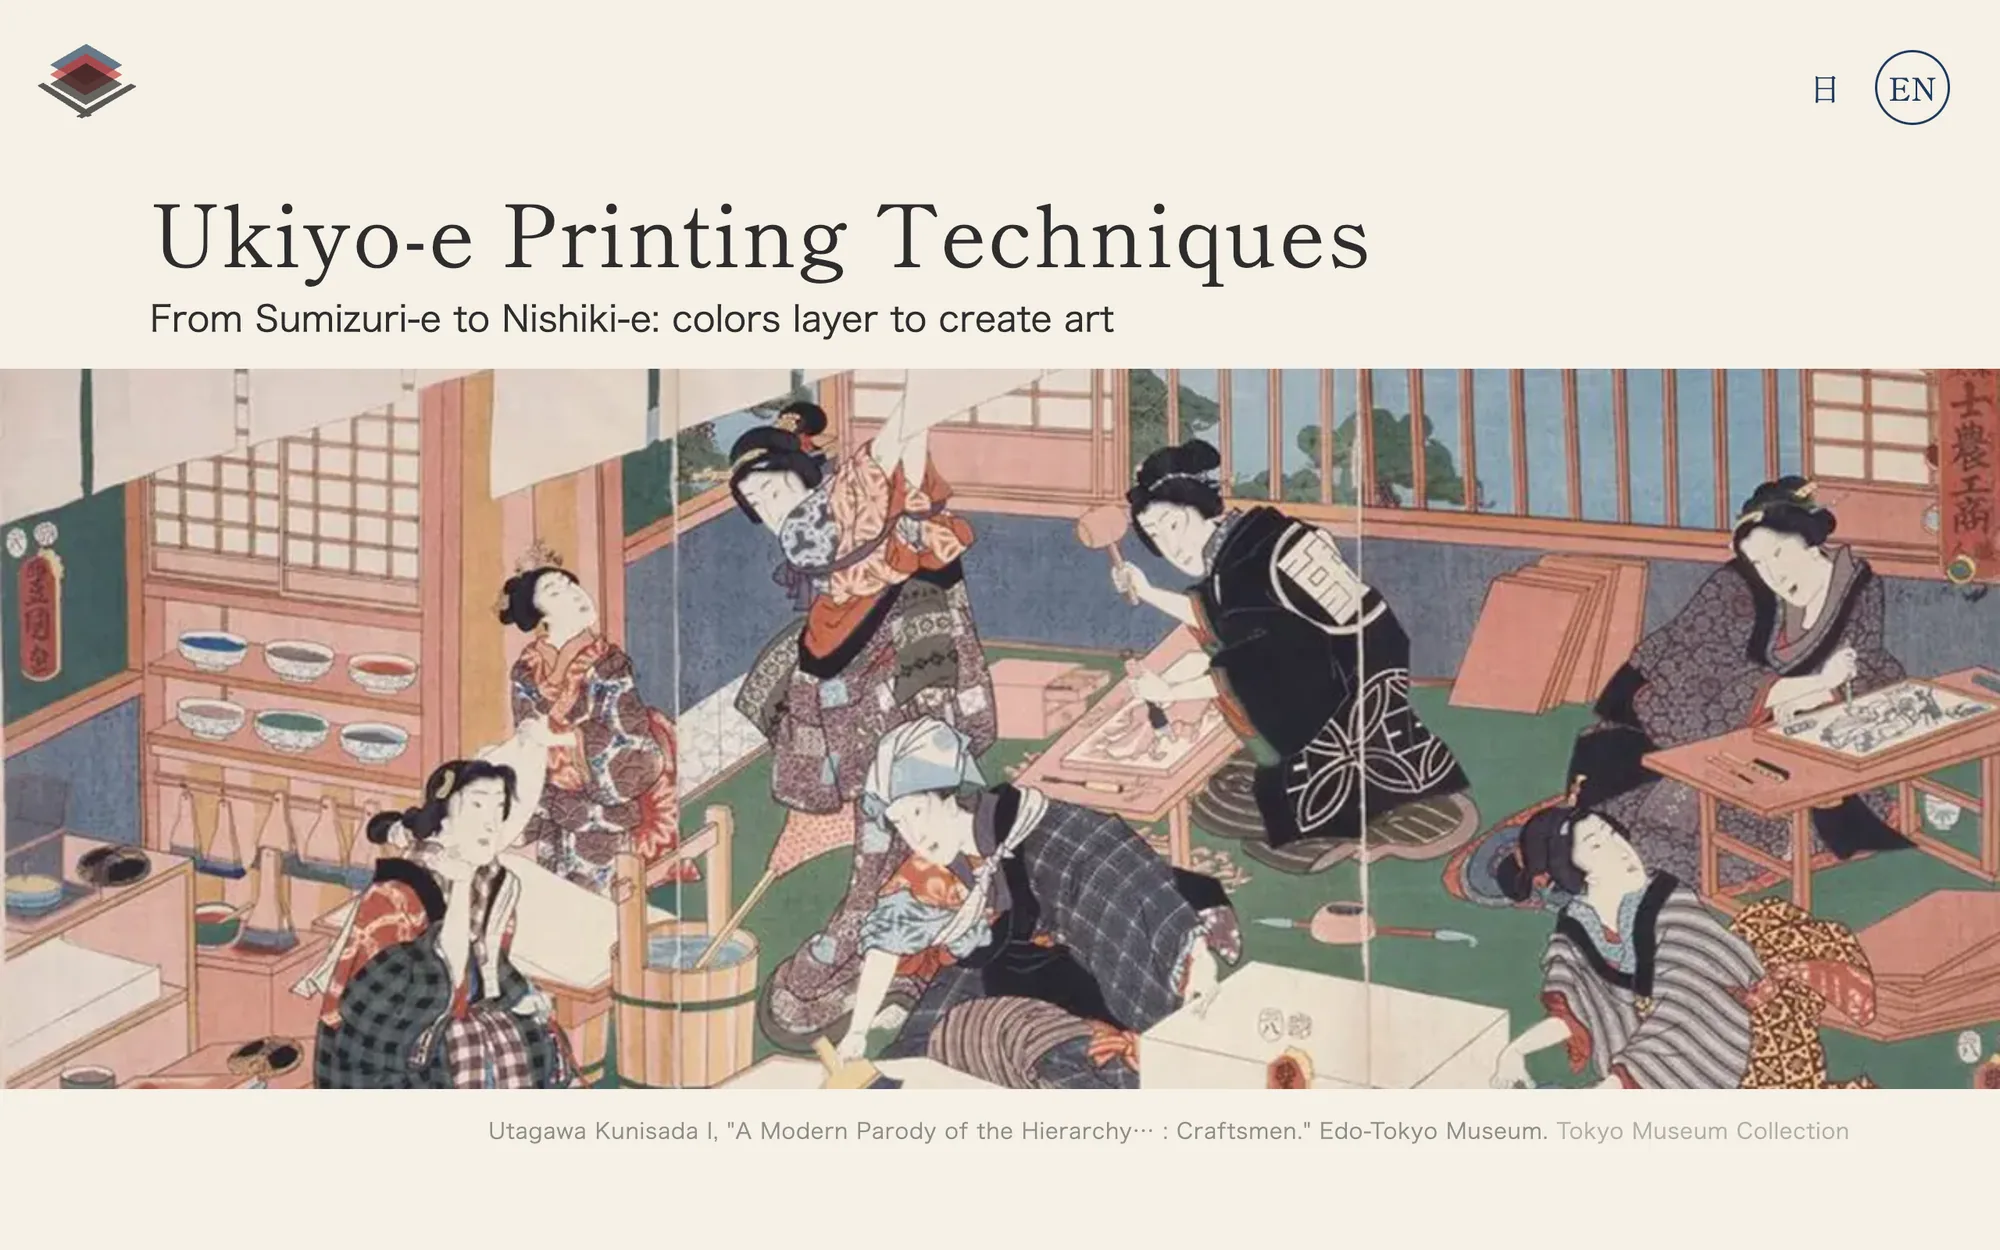
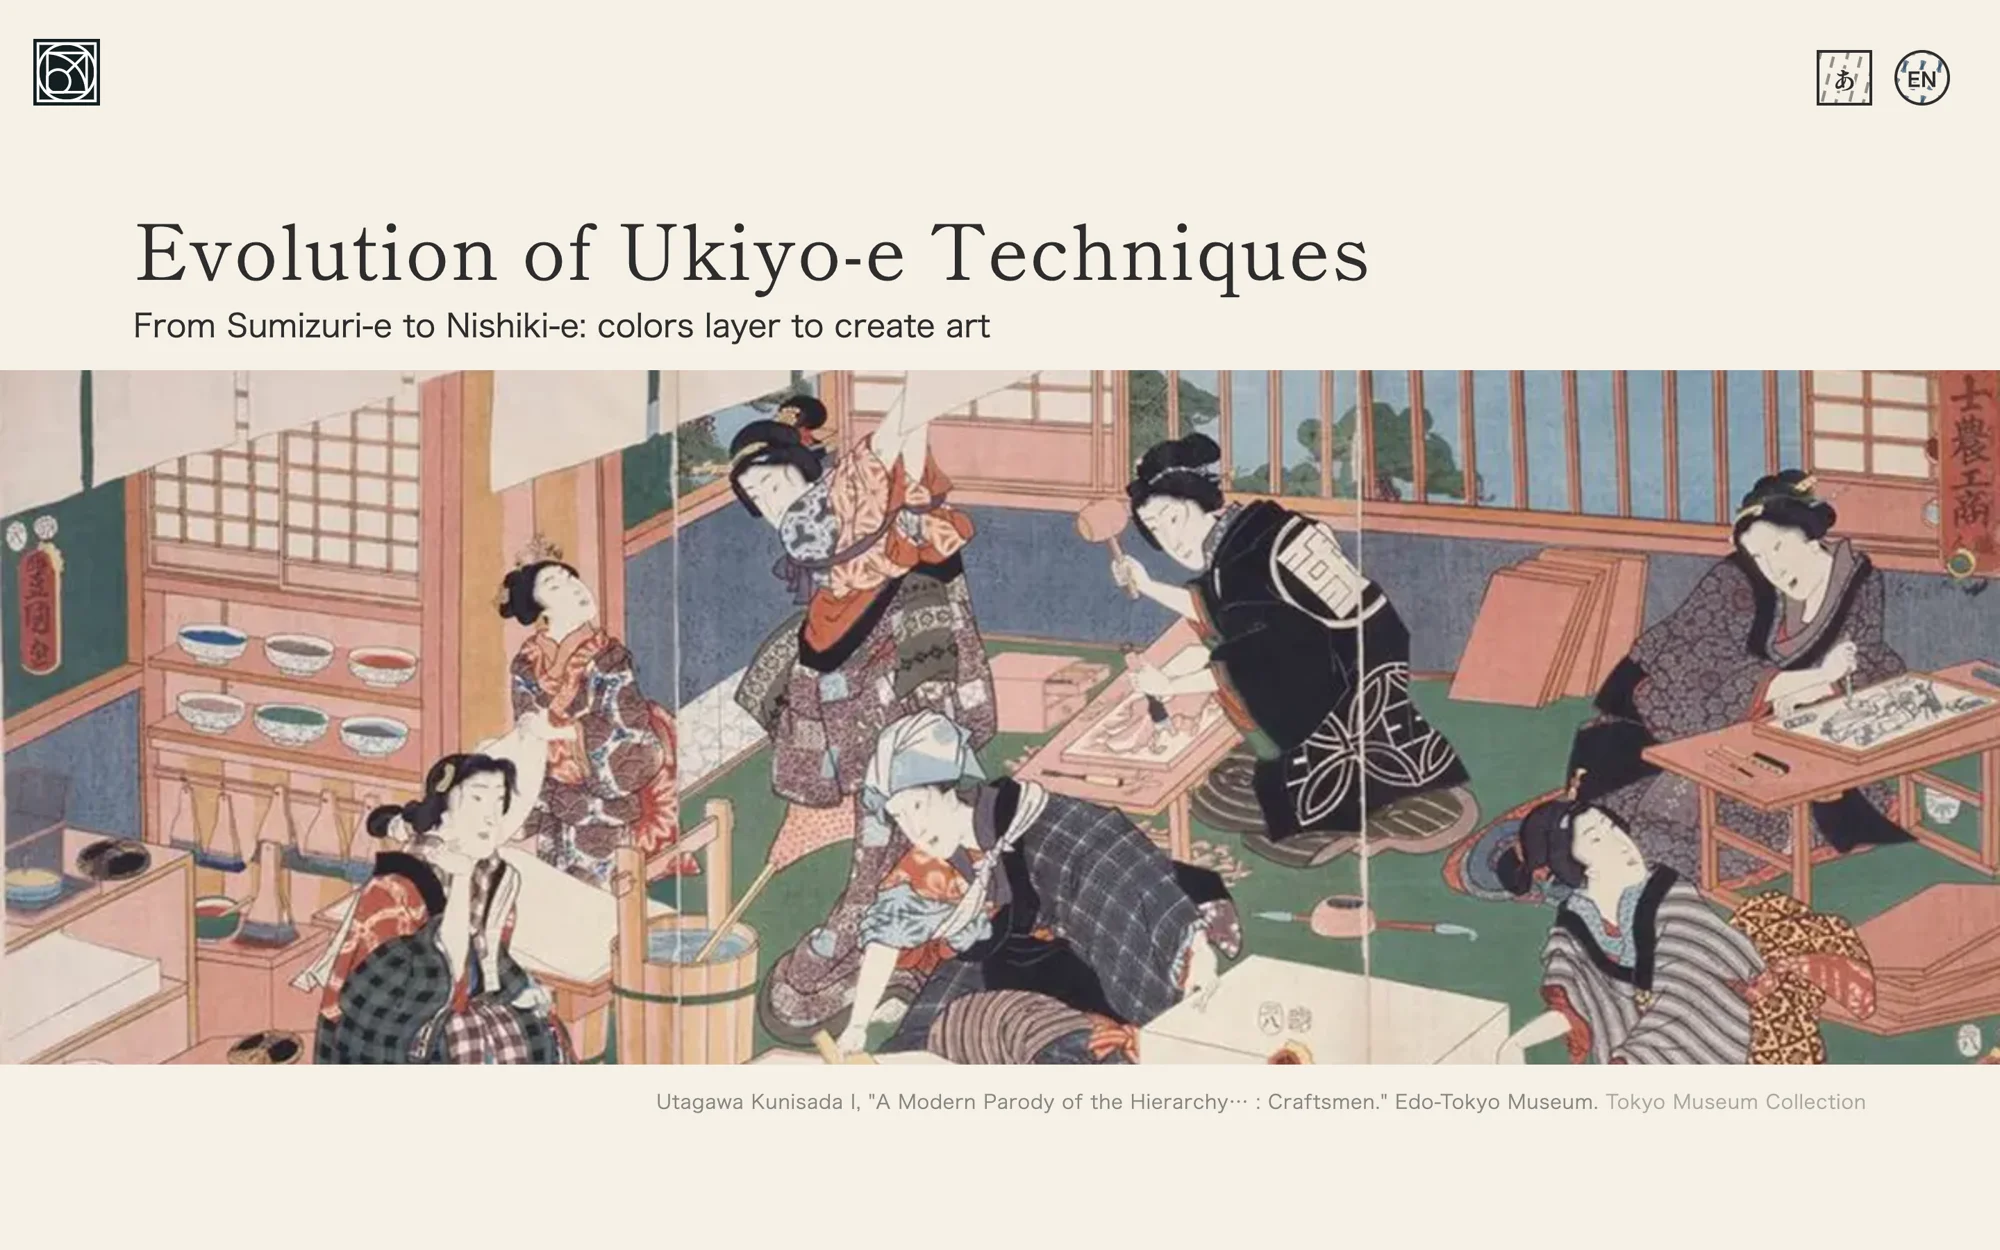
feat(ukiyoe case study): match the rebuilt site — new screenshots, timeline rebuild, color method, language toggle story (#126)
- Home card image: the new top page (the old one still showed the previous logo, flag toggle and title)
- Timeline: why it was rebuilt (eras by technique, prints only, CC0 records for every work) + PC/phone screenshot
- Color system: what is decided from records vs. not yet measured; the site's own palette summary replaces the old estimated bars
- New: Language toggle — Japanese eyes, foreign eyes (Hiroshige 1857 / Van Gogh 1887 rain)
- Technical highlights 2 and 4, project timeline, future text updated

diff --git a/app/[locale]/work/ukiyoe/page.tsx b/app/[locale]/work/ukiyoe/page.tsx
@@ -7,7 +7,6 @@ import WorkMetaGrid from '@/src/components/work/WorkMetaGrid';
 import { useBodyFont, useHeadingFont } from '@/src/hooks/useFonts';
 import { MoveUpRight } from 'lucide-react';
 import { CTAButton } from '@/components/ui/cta-button';
-import ColorSystemViz from '@/components/work/ukiyoe/ColorSystemViz';
 import ColorAnalysisGrid from '@/components/work/ukiyoe/ColorAnalysisGrid';
 import KushiDangoShowcase from '@/components/work/ukiyoe/KushiDangoShowcase';
 import PrintingProcessStudy from '@/components/work/ukiyoe/PrintingProcessStudy';
@@ -30,6 +29,7 @@ const SUBSECTIONS: Record<string, { id: string; key: string }[]> = {
     { id: 'motifs', key: 'ukiyoe.motifsTitle' },
     { id: 'color-system', key: 'ukiyoe.colorSystemTitle' },
     { id: 'logo-design', key: 'ukiyoe.logoDesignTitle' },
+    { id: 'language-toggle', key: 'ukiyoe.langToggleTitle' },
   ],
   reflection: [
     { id: 'learnings', key: 'ukiyoe.learningsTitle' },
@@ -290,6 +290,23 @@ const UkiyoePage: React.FC = () => {
                     {t('ukiyoe.captionTimeline')}
                   </figcaption>
                 </figure>
+                {/* 2026-11 rebuild: eras by technique, prints only, records for every work */}
+                <div className={`mt-10 md:mt-14 mb-6 text-ink-secondary ${bodyTextClass} space-y-4`}>
+                  <p>{t('ukiyoe.timelineDesignText3')}</p>
+                  <p>{t('ukiyoe.timelineDesignText4')}</p>
+                </div>
+                <figure>
+                  <Image
+                    src="/work/ukiyoe/timeline-v2.webp"
+                    alt={t('ukiyoe.captionTimelineV2')}
+                    width={1766}
+                    height={866}
+                    className="w-full h-auto"
+                  />
+                  <figcaption className="mt-3 text-body-sm md:text-body-base text-ink-tertiary font-space-grotesk">
+                    {t('ukiyoe.captionTimelineV2')}
+                  </figcaption>
+                </figure>
               </div>
 
               {/* Design Motifs: Kushi-Dango */}
@@ -321,7 +338,15 @@ const UkiyoePage: React.FC = () => {
                   <p>{t('ukiyoe.colorSystemViz')}</p>
                 </div>
                 <figure>
-                  <ColorSystemViz locale={language} />
+                  {/* the site's own palette summary (2026-11 rebuild) — replaces the earlier proportion bars */}
+                  <Image
+                    key={language}
+                    src={language === 'jp' ? '/work/ukiyoe/palette-v2-jp.webp' : '/work/ukiyoe/palette-v2-en.webp'}
+                    alt={t('ukiyoe.captionColorSystem')}
+                    width={1320}
+                    height={1120}
+                    className="w-full md:w-[75%] md:mx-auto h-auto rounded-lg"
+                  />
                   <figcaption className="mt-3 text-body-sm md:text-body-base text-ink-tertiary font-space-grotesk">
                     {t('ukiyoe.captionColorSystem')}
                   </figcaption>
@@ -349,6 +374,31 @@ const UkiyoePage: React.FC = () => {
                   />
                   <figcaption className="mt-3 text-body-sm md:text-body-base text-ink-tertiary font-space-grotesk">
                     {t('ukiyoe.captionLogo')}
+                  </figcaption>
+                </figure>
+              </div>
+
+              {/* Language toggle: Japanese eyes / foreign eyes (2026-11) */}
+              <div className="mt-12 md:mt-20">
+                <h3 id="language-toggle" className={`scroll-mt-32 text-title mb-4 ${getHeadingFontClass()}`}>
+                  {t('ukiyoe.langToggleTitle')}
+                </h3>
+                <div className={`mb-6 text-ink-secondary ${bodyTextClass} space-y-4`}>
+                  <p>{t('ukiyoe.langToggleText1')}</p>
+                  <p>{t('ukiyoe.langToggleText2')}</p>
+                  <p>{t('ukiyoe.langToggleText3')}</p>
+                  <p>{t('ukiyoe.langToggleText4')}</p>
+                </div>
+                <figure>
+                  <Image
+                    src="/work/ukiyoe/language-toggle-japonisme.webp"
+                    alt={t('ukiyoe.captionLangToggle')}
+                    width={1766}
+                    height={1204}
+                    className="w-full h-auto rounded-lg"
+                  />
+                  <figcaption className="mt-3 text-body-sm md:text-body-base text-ink-tertiary font-space-grotesk">
+                    {t('ukiyoe.captionLangToggle')}
                   </figcaption>
                 </figure>
               </div>

diff --git a/lessons.md b/lessons.md
@@ -1047,3 +1047,7 @@ JP で 16px、デッキで 138px あふれた。
 - main に @types/d3 などが入っていて、worktree の node_modules が古く、tsc が d3 の型エラーを出した。`pnpm install --frozen-lockfile` で直るが、**Playwright のバージョンも上がり、入っていたブラウザ（chromium_headless_shell-1254）と合わなくなった**。ダウンロード（npx playwright install）はせず、すでにある `~/Library/Caches/ms-playwright/chromium-*` を executablePath で指定する（cmp_shot.mjs / mkclientpdf.mjs と同じ）。
 - 本番ビルド（next build）は、開発サーバー（next dev）と同じ `.next` を使うので、先に dev を止め、確認後に dev を再起動する。
 - ルートの入れ替え（A→B）は、`git mv` で2か所を入れ替えたあと、①各 layout.tsx の metadata／archive ②siteRoutes.ts ③ページ内のリンク（CTA）④撮影・PDF スクリプトの URL ⑤Figma を順に直す。本番モードで 200/404 と sitemap を curl で確かめる。
+
+## 2026-11-09: 画像を Figma に上げるときは WebP にしない／読むのは worktree のファイル
+- `upload_assets` に WebP を上げると、成功（imageHash が返る）しても、Figma の中では画像が読めず（getSizeAsync が失敗）、塗りが空になった。**JPEG か PNG に変換してから上げる**（ffmpeg -q:v 3）。部品の中の層（id に `;` が入るもの）は upload_assets の nodeIds に渡せないので、上げた画像の imageHash を use_figma で塗りに入れる。
+- portfolio の main のチェックアウト（~/dev/portfolio）は origin/main より古いことがある。作業用の worktree を origin/main から作ったら、**ページやメッセージはその worktree の中のものを読む**（今回、古い page.tsx を読んで、サイドバーの小見出しの仕組みと hero の画像名を見落としかけた）。
